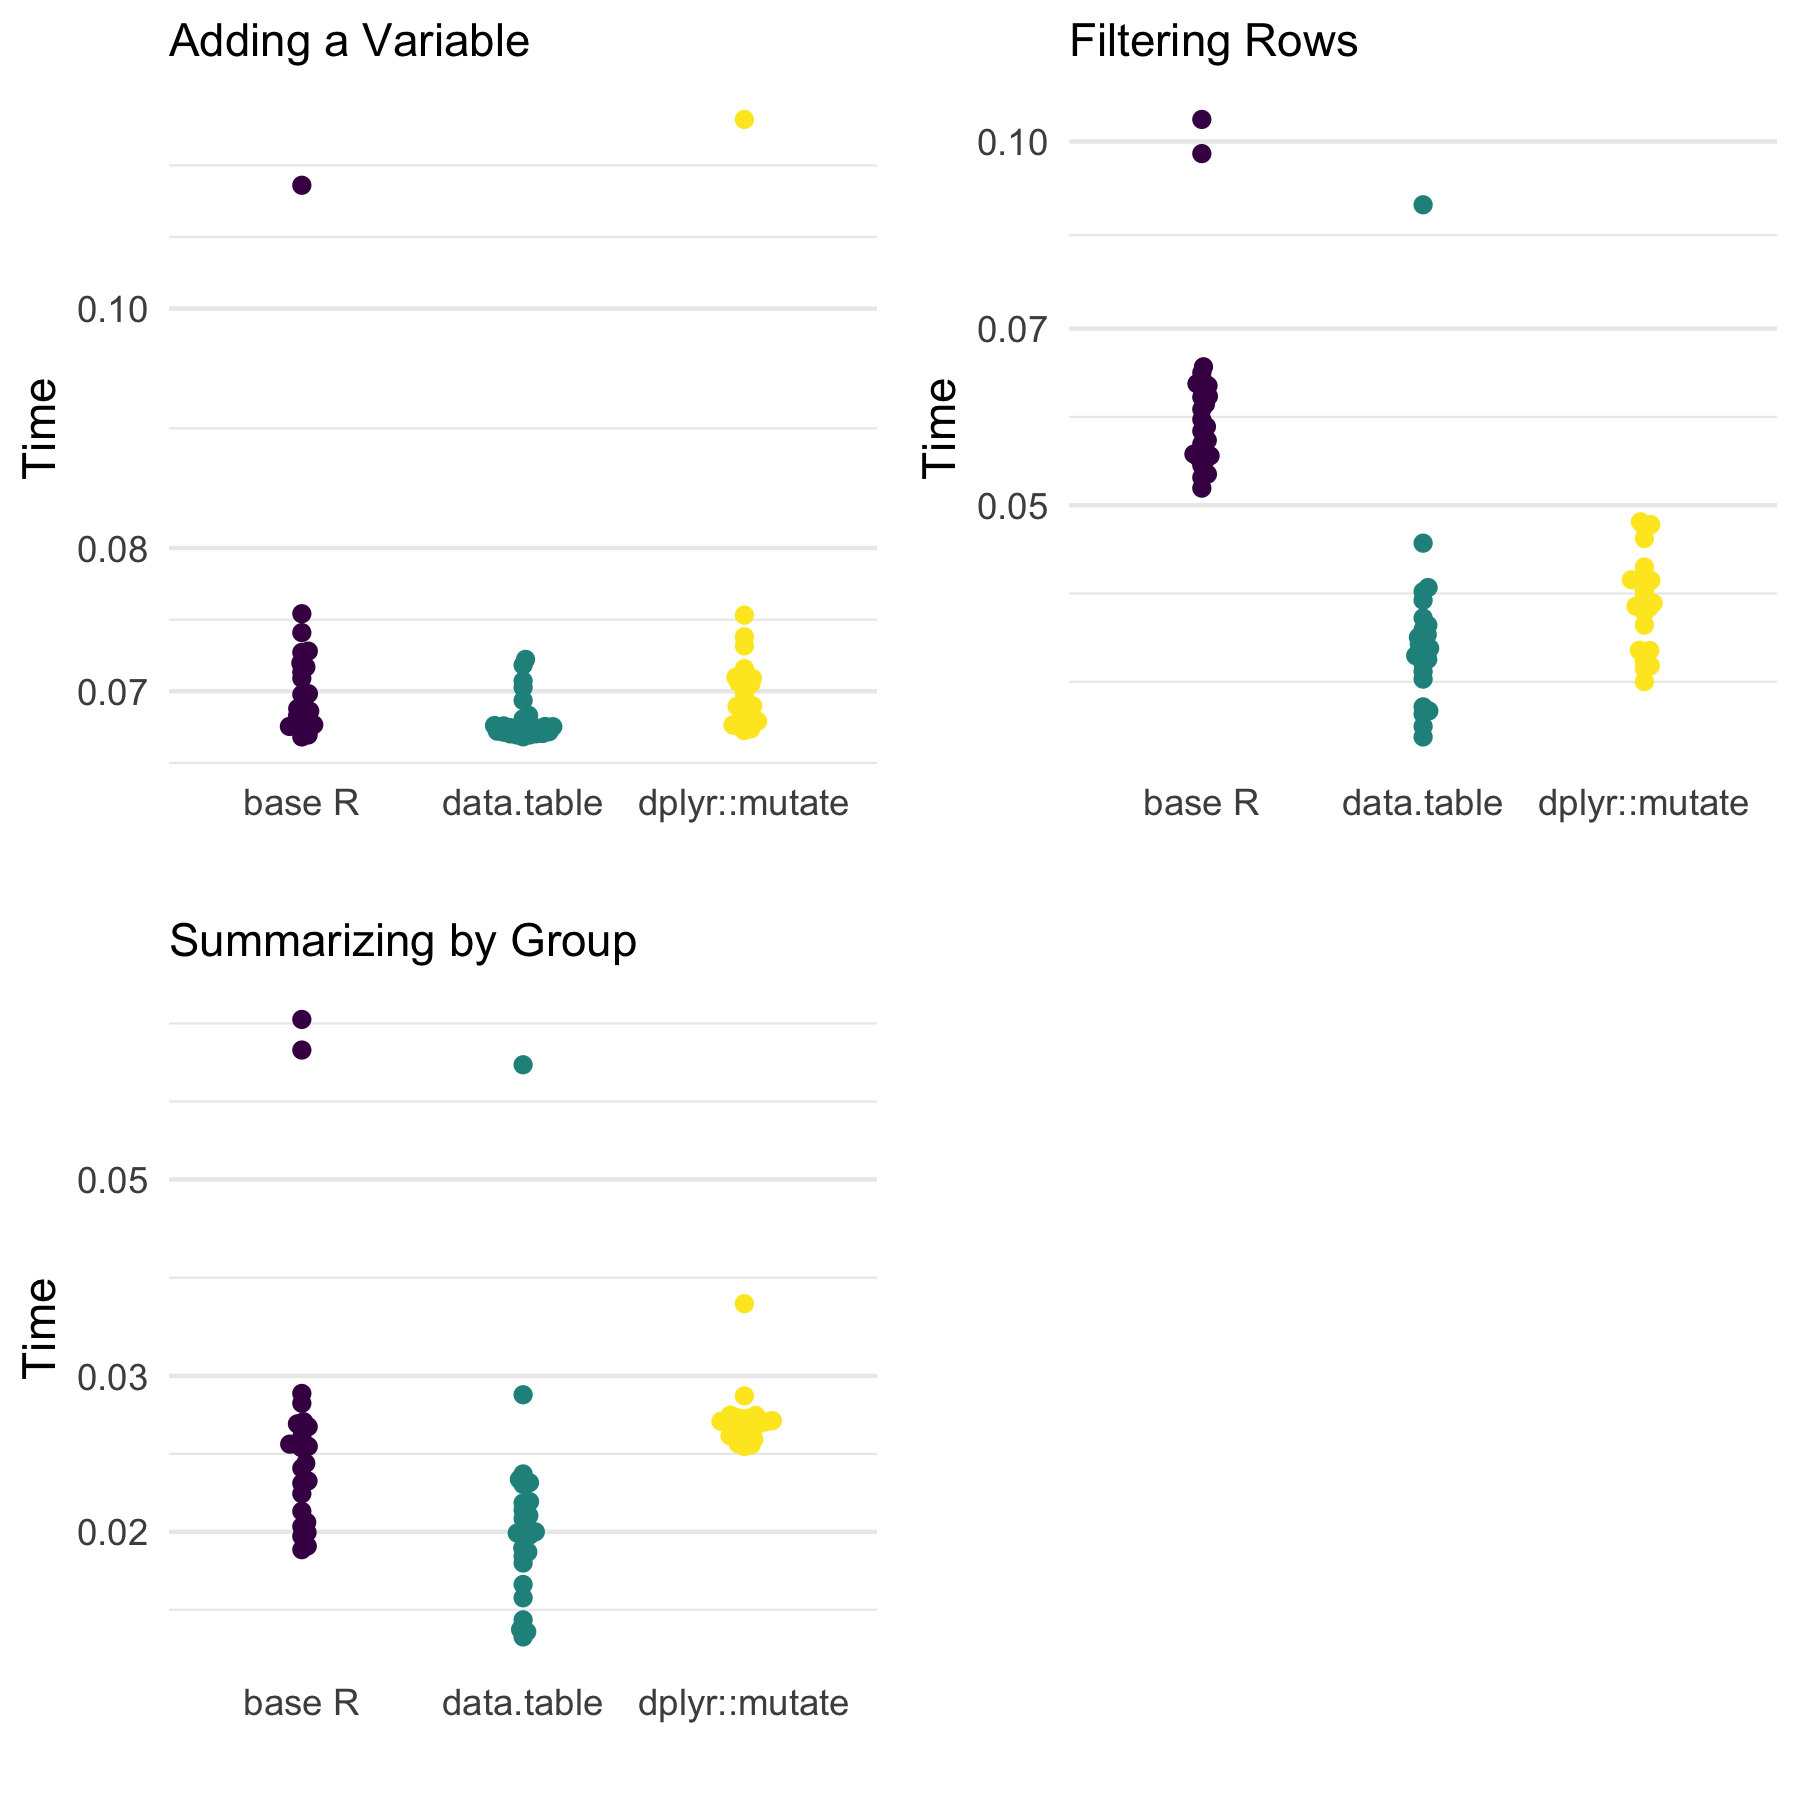
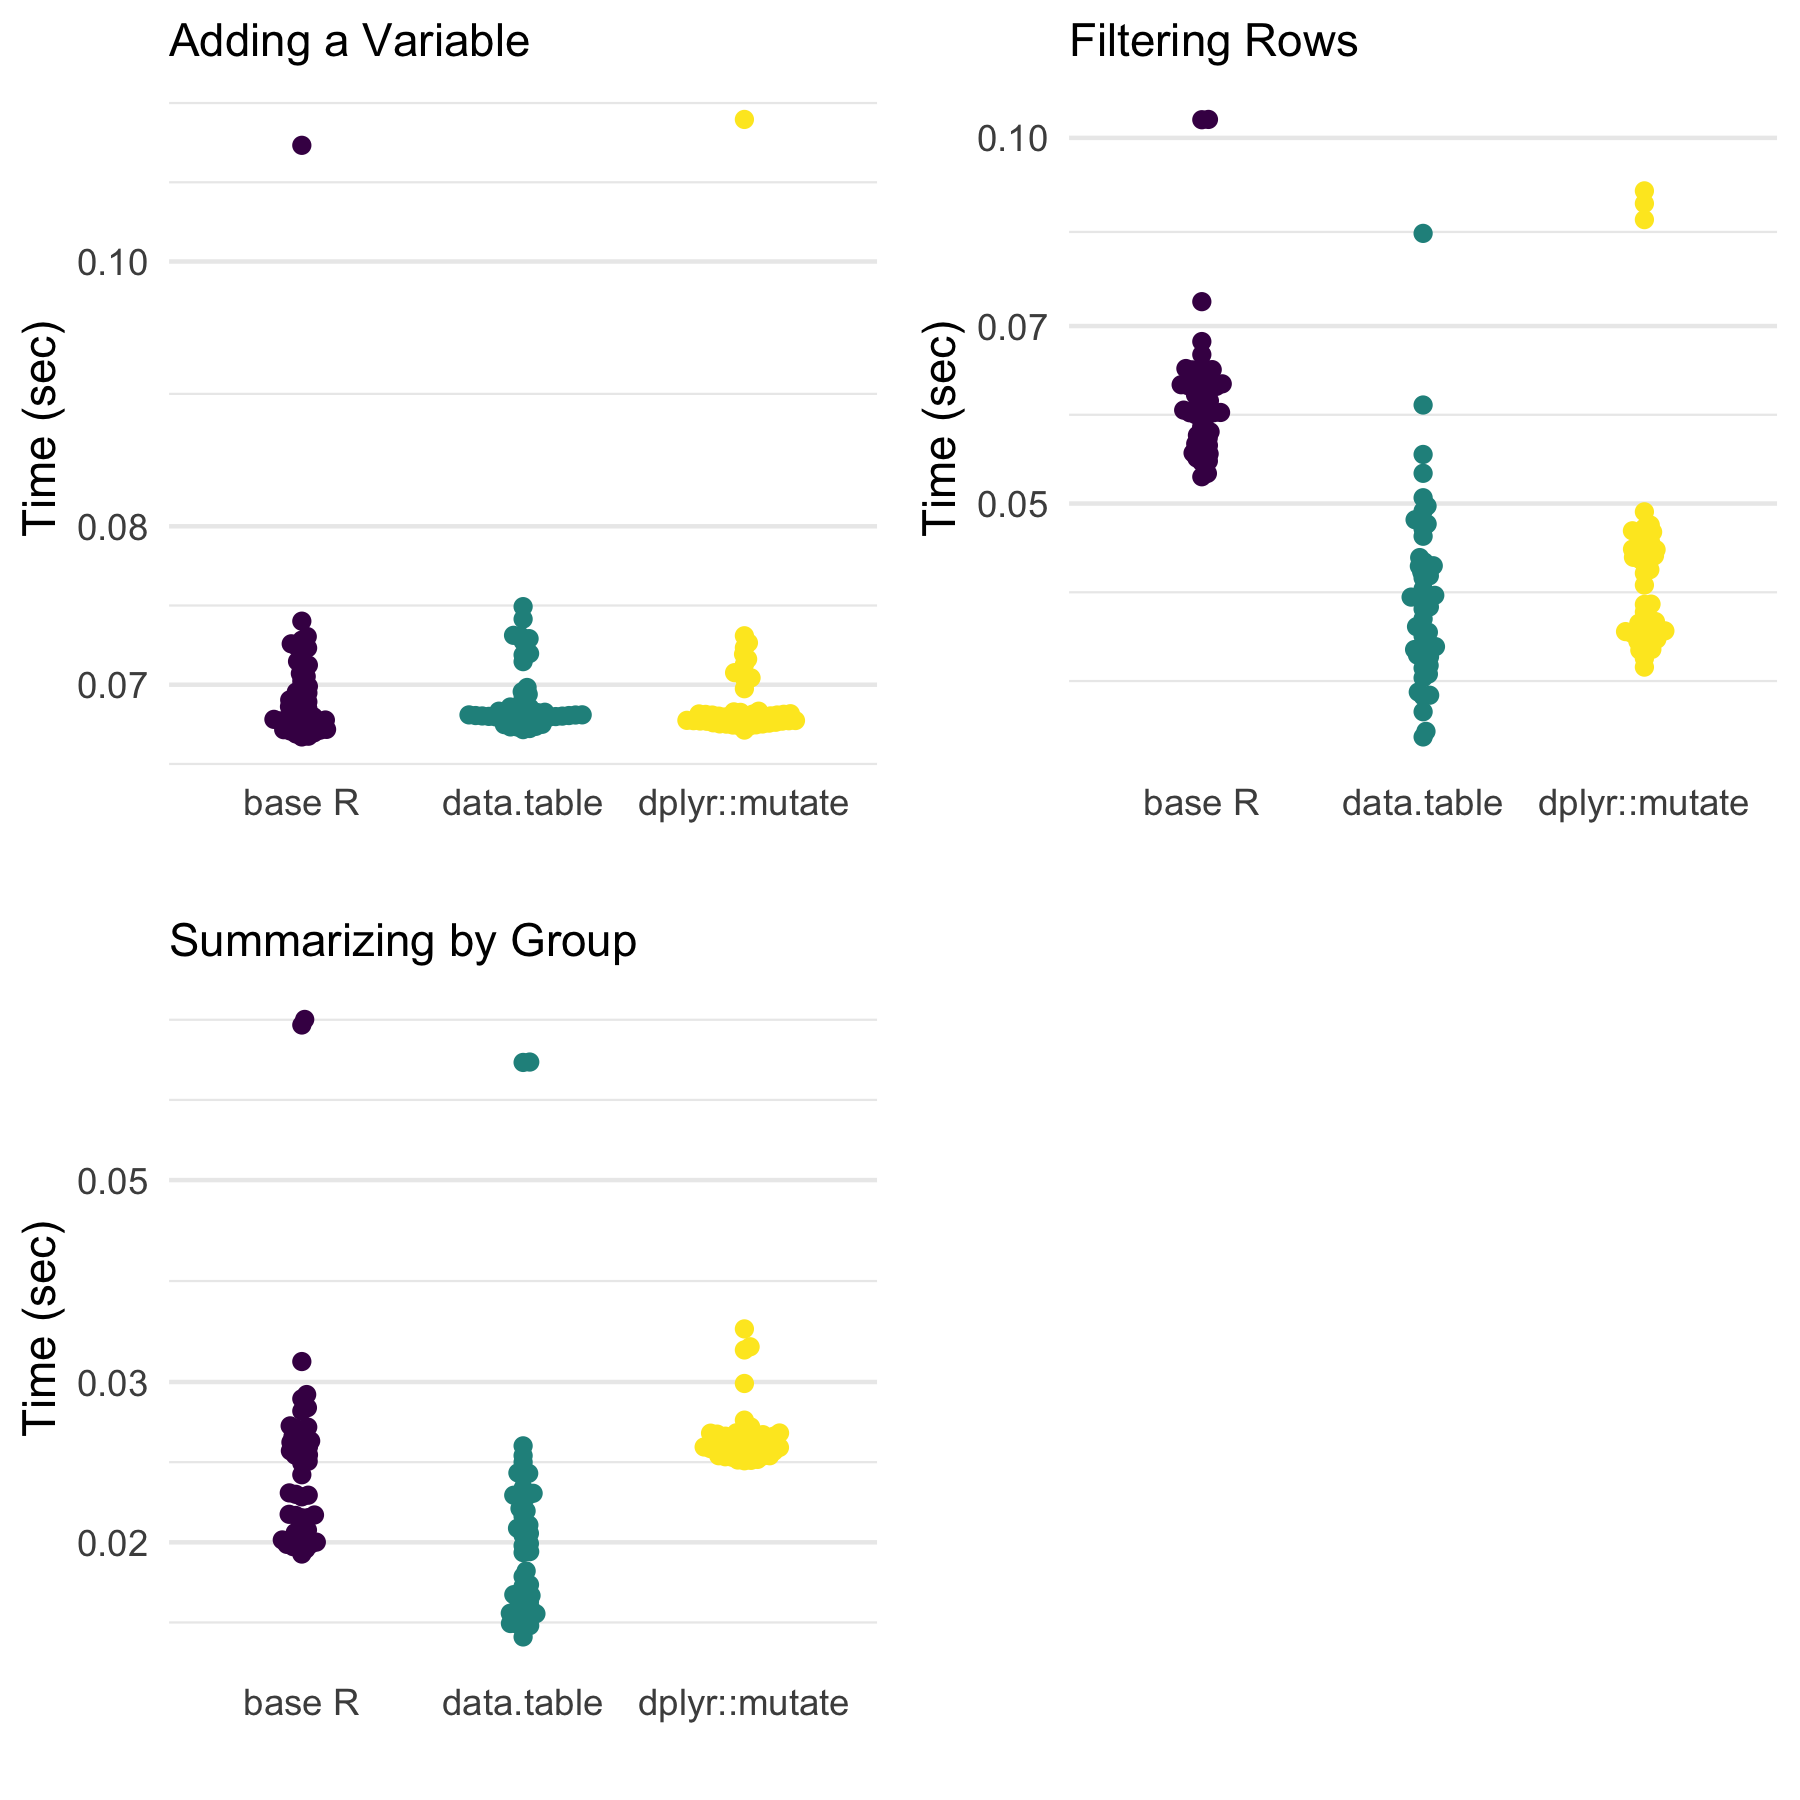
small update

diff --git a/assets/RMD/2019-10-06-datatable_memory.md b/assets/RMD/2019-10-06-datatable_memory.md
@@ -74,7 +74,7 @@ We’ll use the following data table for this post.
     ##  999999:   1 -1.78073054 0.51904927
     ## 1000000:   3 -0.56124894 0.29423306
 
-It is roughly 20 MB and has an address of 0x7fa06de29e00. We won’t be
+It is roughly 20 MB and has an address of 0x7fcf4fcc0800. We won’t be
 using this address later on because we’ll be making copies of this data
 table, but note that an object has a size and an address on your
 computer.
@@ -153,17 +153,17 @@ The following benchmarking tests each situation for the three
 approaches.
 
     # Adding a variable
-    bench_base_m  <- bench::mark(base_mutate(df), iterations = 25)
-    bench_dplyr_m <- bench::mark(dplyr_mutate(tbl), iterations = 25)
-    bench_dt_m    <- bench::mark(dt_mutate(dt), iterations = 25)
+    bench_base_m  <- bench::mark(base_mutate(df), iterations = 50)
+    bench_dplyr_m <- bench::mark(dplyr_mutate(tbl), iterations = 50)
+    bench_dt_m    <- bench::mark(dt_mutate(dt), iterations = 50)
     # Filtering rows
-    bench_base_f  <- bench::mark(base_filter(df), iterations = 25)
-    bench_dplyr_f <- bench::mark(dplyr_filter(tbl), iterations = 25)
-    bench_dt_f    <- bench::mark(dt_filter(dt), iterations = 25)
+    bench_base_f  <- bench::mark(base_filter(df), iterations = 50)
+    bench_dplyr_f <- bench::mark(dplyr_filter(tbl), iterations = 50)
+    bench_dt_f    <- bench::mark(dt_filter(dt), iterations = 50)
     # Summarizing by group
-    bench_base_s  <- bench::mark(base_summarize(df), iterations = 25)
-    bench_dplyr_s <- bench::mark(dplyr_summarize(tbl), iterations = 25)
-    bench_dt_s    <- bench::mark(dt_summarize(dt), iterations = 25)
+    bench_base_s  <- bench::mark(base_summarize(df), iterations = 50)
+    bench_dplyr_s <- bench::mark(dplyr_summarize(tbl), iterations = 50)
+    bench_dt_s    <- bench::mark(dt_summarize(dt), iterations = 50)
 
 Memory Usage (Efficiency)
 -------------------------

diff --git a/_posts/2019-10-06-datatable_memory.md b/_posts/2019-10-06-datatable_memory.md
@@ -177,17 +177,17 @@ approaches.
 
 {% highlight r %}
 # Adding a variable
-bench_base_m  <- bench::mark(base_mutate(df), iterations = 25)
-bench_dplyr_m <- bench::mark(dplyr_mutate(tbl), iterations = 25)
-bench_dt_m    <- bench::mark(dt_mutate(dt), iterations = 25)
+bench_base_m  <- bench::mark(base_mutate(df), iterations = 50)
+bench_dplyr_m <- bench::mark(dplyr_mutate(tbl), iterations = 50)
+bench_dt_m    <- bench::mark(dt_mutate(dt), iterations = 50)
 # Filtering rows
-bench_base_f  <- bench::mark(base_filter(df), iterations = 25)
-bench_dplyr_f <- bench::mark(dplyr_filter(tbl), iterations = 25)
-bench_dt_f    <- bench::mark(dt_filter(dt), iterations = 25)
+bench_base_f  <- bench::mark(base_filter(df), iterations = 50)
+bench_dplyr_f <- bench::mark(dplyr_filter(tbl), iterations = 50)
+bench_dt_f    <- bench::mark(dt_filter(dt), iterations = 50)
 # Summarizing by group
-bench_base_s  <- bench::mark(base_summarize(df), iterations = 25)
-bench_dplyr_s <- bench::mark(dplyr_summarize(tbl), iterations = 25)
-bench_dt_s    <- bench::mark(dt_summarize(dt), iterations = 25)
+bench_base_s  <- bench::mark(base_summarize(df), iterations = 50)
+bench_dplyr_s <- bench::mark(dplyr_summarize(tbl), iterations = 50)
+bench_dt_s    <- bench::mark(dt_summarize(dt), iterations = 50)
 {% endhighlight %}
 
 Memory Usage (Efficiency)
